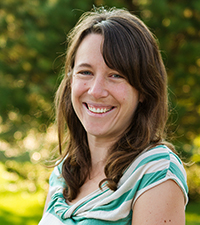
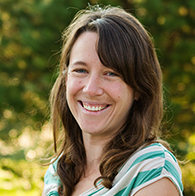
updated About

diff --git a/ipbes/about.html b/ipbes/about.html
@@ -149,17 +149,32 @@
 	<!-- Contributors -->
 	<div class="w3-row-padding w3-theme-l1" id="contributors">
 
-		<center>
-			<h2>Visualization contributors</h2>
-			<p>Contact <a href="mailto:chweil@stanford.edu">chweil@stanford.edu</a></p>
-		</center>
+	
+		<hr>
+		<h2>Contributors</h2>
 
-		<div class="w3-container w3-center w3-text-light-grey" style="padding-left: 5vw; padding-top: 1vh;">
 
-			<div class="w3-third">
+		<div class="w3-quarter w3-center">
+			<img src="static/images/peeps/bc.jpg" alt="Pic" style="width:45%" class="w3-circle w3-hover-opacity">
+			<h3>Rebecca Chaplin-Kramer</h3>
+			<p>Correspondence to <a href="bchaplin@stanford.edu">bchaplin@stanford.edu</a></p>
+
+		</div>
+
+		<div class="w3-quarter w3-center">
+			<img src="static/images/peeps/rs.jpg" alt="Pic" style="width:45%" class="w3-circle w3-hover-opacity">
+			<h3>Richard P. Sharp</h3>
+			<h3 class="icon-row center">
+					<a class="inline-icon" href="mailto:rpsharp@stanford.edu">
+					<i class="zmdi zmdi-email"></i></a>
+					<a class="inline-icon" href="https://bitbucket.org/richsharp/" target="_blank">
+					<i class="zmdi zmdi-github"></i></a>
+			</h3>
+		</div>
+
+		<div class="w3-quarter w3-center">
 				<img src="static/images/peeps/cw.jpg" alt="Pic" style="width:45%" class="w3-circle w3-hover-opacity">
 				<h3>Charlotte G. Weil</h3>
-				<div class="center w3-text-grey"><i>Visualization lead</i></div>
 				<h3 class="icon-row w3-center">
 		          <a class="inline-icon" href="mailto:weilcharlotte@gmail.com">
 		            <i class="zmdi zmdi-email"></i></a>
@@ -168,13 +183,11 @@
 		          <a class="inline-icon" href="https://twitter.com/charlotte_weil" target="_blank"><i class="zmdi zmdi-twitter"></i></a>
 		          <a class="inline-icon" href="https://www.linkedin.com/in/charlotteweil" target="_blank"><i class="zmdi zmdi-linkedin"></i></a>
 		       </h3>
-			</div>
+		</div>
 
-			<div class="w3-third">
+		<div class="w3-quarter w3-center">
 				<img src="static/images/peeps/af.jpg" alt="Pic" style="width:45%" class="w3-circle w3-hover-opacity">
 				<h3>Anna Fredriksson Häägg</h3>
-				<div class="center w3-text-grey">
-					<i>Main Developer & Design Goddess</i></div>
 				<h3 class="icon-row center">
 					<a class="inline-icon" href="mailto:haagg.anna@gmail.com">
 					<i class="zmdi zmdi-email"></i></a>
@@ -184,90 +197,12 @@
 				</h3>
 			</div>
 
-			<div class="w3-third">
-				<img src="static/images/peeps/rs.jpg" alt="Pic" style="width:45%" class="w3-circle w3-hover-opacity">
-				<h3>Rich P. Sharp</h3>
-				<div class="center w3-text-grey">
-					<i>Tilesets hero</i></div>
-				<h3 class="icon-row center">
-		          <a class="inline-icon" href="mailto:harshdeep.harshdeep@epfl.ch">
-		            <i class="zmdi zmdi-email"></i></a>
-		          <a class="inline-icon" href="https://github.com/Harshdeep1996" target="_blank"><i class="zmdi zmdi-github"></i></a>
-		          <a class="inline-icon" href="https://www.linkedin.com/in/harshdeep-singh-494073b7/" target="_blank"><i class="zmdi zmdi-linkedin"></i></a>
-		        </h3>
-			</div>
+	</div><div class="w3-row-padding w3-theme-l1">
+			
+			<div class="w3-half">
+			<p> Science contributors: Rebecca Chaplin-Kramer,  Richard P. Sharp, Charlotte G. Weil, Elena M. Bennett, Unai Pascual, Adrian L. Vogl, Katie K. Arkema, Kate A. Brauman, Anne D. Guerry, Nick M. Haddad, Maike Hamann, Perrine Hamel, Justin A. Johnson, Lisa Mandle, Henrique M. Pereira, Stephen Polasky, Mary Ruckelshaus, M. Rebecca Shaw, Jessica M. Silver, Gretchen C. Daily</p>
+			</div><div class="w3-half"><p> Visualization: Charlotte G. Weil, with great help from Anna Fredriksson Häägg, Rebecca Chaplin-Kramer,  Richard P. Sharp, and also Sarah Cafasso, David Malmström, Sami Ben Hassen, Harshdeep, Ahmed Ahres.</p></div>
 
-		</div>
-
-		<div class="w3-container w3-center w3-text-light-grey" style="padding-left: 5vw; padding-top: 1vh;">
-			<div class="w3-quarter">
-				<img src="static/images/peeps/aa.jpg" alt="Pic" style="width:45%; " class="w3-circle w3-hover-opacity">
-				<h3>Ahmed Ahres</h3>
-				<h3 class="icon-row center">
-					<a class="inline-icon" href="mailto:ahmed.ahres@epfl.ch">
-					<i class="zmdi zmdi-email"></i></a>
-					<a class="inline-icon" href="https://github.com/AhmedAhres" target="_blank">
-					<i class="zmdi zmdi-github"></i></a>
-					<a class="inline-icon" href="https://www.linkedin.com/in/AhmedAhres" target="_blank"><i class="zmdi zmdi-linkedin"></i></a>
-				</h3>
-			</div>
-
-			<div class="w3-quarter">
-				<img src="static/images/peeps/hh.jpg" alt="Pic" style="width:45%" class="w3-circle w3-hover-opacity">
-				<h3>Harshdeep</h3>
-				<h3 class="icon-row center">
-		          <a class="inline-icon" href="mailto:harshdeep.harshdeep@epfl.ch">
-		            <i class="zmdi zmdi-email"></i></a>
-		          <a class="inline-icon" href="https://github.com/Harshdeep1996" target="_blank">
-		            <i class="zmdi zmdi-github"></i></a>
-		          <a class="inline-icon" href="https://www.linkedin.com/in/harshdeep-singh-494073b7/" target="_blank"><i class="zmdi zmdi-linkedin"></i></a>
-		        </h3>
-			</div>
-
-			<div class="w3-quarter">
-				<img src="static/images/peeps/sb.jpg" alt="Pic" style="width:45%" class="w3-circle w3-hover-opacity">
-				<h3>Sami Ben Hassen</h3>
-				<h3 class="icon-row center">
-		          <a class="inline-icon" href="mailto:sami.benhassen@epfl.cha">
-		            <i class="zmdi zmdi-email"></i></a>
-		          <a class="inline-icon" href="https://github.com/sami2310" target="_blank">
-		            <i class="zmdi zmdi-github"></i></a>
-		          <a class="inline-icon" href="https://www.linkedin.com/in/sami-ben-hassen-766645127/" target="_blank"><i class="zmdi zmdi-linkedin"></i></a></h3>
-			</div>
-
-			<div class="w3-quarter">
-				<img src="static/images/peeps/dm.jpg" alt="Pic" style="width:45%" class="w3-circle w3-hover-opacity">
-				<h3>David Malmström</h3>
-				<h3 class="icon-row center">
-		          <a class="inline-icon" href="mailto:david.malmstrom@epfl.ch">
-		            <i class="zmdi zmdi-email"></i></a>
-		          <a class="inline-icon" href="https://github.com/" target="_blank">
-		            <i class="zmdi zmdi-github"></i></a>
-		          <a class="inline-icon" href="https://www.linkedin.com/in/" target="_blank"><i class="zmdi zmdi-linkedin"></i></a>
-		        </h3>
-			</div>
-
-		</div>
-
-
-
-		<h2>Science contributors</h2>
-		<p>Correspondence to <a href="bchaplin@stanford.edu">bchaplin@stanford.edu</a></p>
-
-
-		<div class="w3-quarter w3-center">
-			<img src="static/images/peeps/bc.jpg" alt="Pic" style="width:55%" class="w3-circle w3-hover-opacity">
-			<h3>Rebecca Chaplin-Kramer</h3>
-		</div>
-
-		<div class="w3-quarter w3-center">
-			<img src="static/images/peeps/rs.jpg" alt="Pic" style="width:55%" class="w3-circle w3-hover-opacity">
-			<h3>Richard P. Sharp</h3>
-		</div>
-
-		<div class="w3-half">
-			<h5> And Charlotte G. Weil, Elena M. Bennett, Unai Pascual, Adrian L. Vogl, Katie K. Arkema, Kate A. Brauman, Anne D. Guerry, Nick M. Haddad, Maike Hamann, Perrine Hamel, Justin A. Johnson, Lisa Mandle, Henrique M. Pereira, Stephen Polasky, Mary Ruckelshaus, M. Rebecca Shaw, Jessica M. Silver, Gretchen C. Daily</h5>
-		</div>
 
 	</div>
 	<div class="w3-row-padding w3-theme-l1 w3-padding-32" id="contributors">

diff --git a/ipbes/index.html b/ipbes/index.html
@@ -80,7 +80,7 @@
                   <p class="title2DLegend"> Pollination Key Areas </p>
                 <img src="static/images/legend2d.png" class="img-legend"> </img>
                 <p id="label2DLegendX">Nature's Contributions &#8594; </p>
-                <p id="label2DLegendY">Demand &#8594;</p>
+                <p id="label2DLegendY">People's Needs &#8594;</p>
               </div>
               <!--Information containter-->
               <i id="infoButton" class="info-button fas fa-info-circle" onclick="showInfo('info-overlay')"></i>
